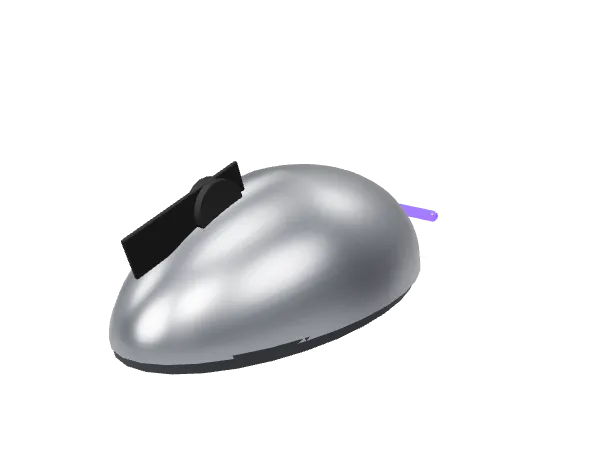
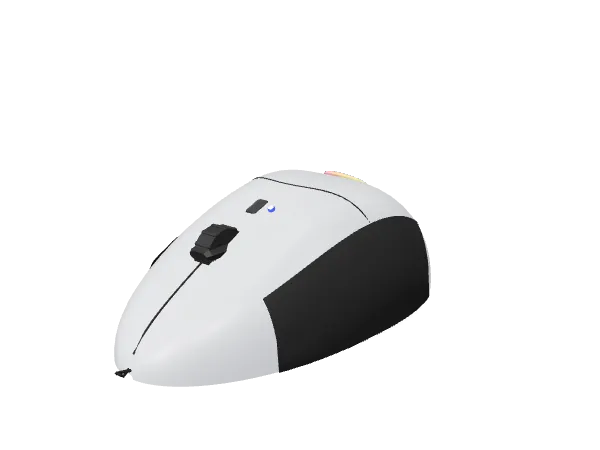
Realistic computer mouse, rodent fixes

Changed region(s): [[0.18, 0.3422, 0.75, 0.8711]]

diff --git a/src/models/electronics/computers.js b/src/models/electronics/computers.js
@@ -1,4 +1,5 @@
 // Computers & peripherals: laptop, desktop PC sets, monitor, keyboard, mouse/trackpad, printer, router, retro computer.
+import { brandEmblem } from '../../core/brand.js';
 import { THREE, M, mesh, group, roundedBox, lathe, curveTube, tube, cushion, clip, rotateTrack, moveTrack, spinTrack, pingPong, PI,
   makeDevice, screen, led, rgb, emblem, vents, ports, slab, frame, trimShell, keyGrid, LAYOUT } from './kit.js';
 
@@ -207,60 +208,162 @@ export const createComputerKeyboard = makeDevice('computer-keyboard', KEYBOARD_V
 export const MOUSE_VARIANTS = {
   office: { l: 0.11, w: 0.062, h: 0.036 },
   esports: { l: 0.126, w: 0.068, h: 0.042, side: true },
-  vertical: { l: 0.11, w: 0.07, h: 0.075, vertical: true },
+  vertical: { l: 0.115, w: 0.078, h: 0.072, vertical: true },
   trackball: { l: 0.13, w: 0.09, h: 0.045, ball: true },
   'travel-mini': { l: 0.09, w: 0.052, h: 0.028 },
   trackpad: { pad: true },
 };
 
+/** Mouse body as a height field over an egg-shaped plan (front = +Z): steep sides, hump towards the rear.
+ *  Returns { H(x,z) top height, W(z) plan half-width, N(x,z) surface normal, geo } so every part sits on it. */
+function mouseShape(V) {
+  const { l, w, h } = V;
+  const L2 = l / 2;
+  const W = (z) => { const u = THREE.MathUtils.clamp(z / L2, -1, 1); return (w / 2) * Math.sqrt(Math.max(0, 1 - Math.abs(u) ** 2.4)) * (1 - 0.1 * u); };
+  const crest = (u) => h * (0.42 + 0.58 * Math.exp(-(((u + 0.18) / 0.78) ** 2))) * Math.sqrt(Math.max(0, 1 - Math.abs(u) ** 3.2));
+  const scoop = (z) => (V.vertical || V.ball ? 0 : 0.13 * Math.exp(-((((z / L2) - 0.02) / 0.38) ** 2))); // thumb waist, left side
+  const Wx = (x, z) => W(z) * (x < 0 ? 1 - scoop(z) : 1);
+  const H = (x, z) => {
+    const u = THREE.MathUtils.clamp(z / L2, -1, 1);
+    const wz = Wx(x, z);
+    if (wz <= 1e-6) return 0;
+    const v = THREE.MathUtils.clamp(x / wz, -1, 1);
+    let y = crest(u) * Math.sqrt(Math.max(0, 1 - v ** 4));
+    if (V.vertical) y *= 0.3 + 0.7 * ((v + 1) / 2) ** 0.8; // handshake slope: high on the right, low thumb side
+    return y;
+  };
+  const N = (x, z) => { const e = 0.0006; return new THREE.Vector3(-(H(x + e, z) - H(x - e, z)) / (2 * e), 1, -(H(x, z + e) - H(x, z - e)) / (2 * e)).normalize(); };
+  // top surface grid (rows along Z with cosine spacing, columns across), closed by a flat bottom
+  const R = 40, C = 32, pos = [], idx = [];
+  for (let i = 0; i <= R; i++) {
+    const u = -Math.cos((i / R) * PI); const z = u * L2 * 0.999; const wz = W(z);
+    for (let k = 0; k <= C; k++) { const v = -Math.cos((k / C) * PI); const x = v * (v < 0 ? wz * (1 - scoop(z)) : wz); pos.push(x, H(x, z), z); }
+  }
+  for (let i = 0; i < R; i++) for (let k = 0; k < C; k++) { const a = i * (C + 1) + k, b = a + C + 1; idx.push(a, b, a + 1, a + 1, b, b + 1); }
+  const top = new THREE.BufferGeometry();
+  top.setAttribute('position', new THREE.Float32BufferAttribute(pos, 3)); top.setIndex(idx); top.computeVertexNormals();
+  const plan = [];
+  for (let i = 0; i <= 64; i++) { const t = (i / 64) * PI * 2; const z = Math.cos(t) * L2 * 0.999; const sx = Math.sin(t); plan.push(new THREE.Vector2(sx * W(z) * (sx < 0 ? 1 - scoop(z) : 1), z)); }
+  const bottom = new THREE.ShapeGeometry(new THREE.Shape(plan), 1).rotateX(PI / 2).translate(0, 0.0004, 0);
+  return { H, W: Wx, N, top, bottom, plan, L2, grid: { R, C, scoop } };
+}
+
 export function buildMouse(ctx, par, V, { at = [0, 0, 0], rotY = 0 } = {}) {
   const { T } = ctx;
   const g = group('mouse', { parent: par, at, rot: [0, rotY, 0] });
   if (V.pad) {
-    const w = 0.16, d = 0.115;
-    const wedge = new THREE.Shape([new THREE.Vector2(-d / 2, 0), new THREE.Vector2(d / 2, 0), new THREE.Vector2(d / 2, 0.0045), new THREE.Vector2(-d / 2, 0.01)]);
-    const geo = new THREE.ExtrudeGeometry(wedge, { depth: w, bevelEnabled: true, bevelThickness: 0.002, bevelSize: 0.0015, bevelSegments: 2 });
-    geo.translate(0, 0.0015, -w / 2).rotateY(PI / 2);
-    mesh(geo, T.body, { parent: g });
-    const top = new THREE.MeshPhysicalMaterial({ color: T.white || T.plain ? '#e7e9ec' : T.retro ? '#bfb393' : '#2b2d31', roughness: 0.4, clearcoat: 0.5 });
-    mesh(new THREE.PlaneGeometry(w - 0.006, Math.hypot(d, 0.0055) - 0.006).rotateX(-PI / 2 - Math.atan2(0.0055, d)), top, { parent: g, at: [0, 0.0087, 0] });
-    led(ctx, g, 'green', { at: [-w / 2 + 0.01, 0.0115, -d / 2 + 0.003], normal: [0, 1, 0], w: 0.002 });
-    if (T.gaming) rgb(ctx, g, { at: [0, 0.003, d / 2 + 0.0026], w: w * 0.9, h: 0.002 });
-    trimShell(ctx, g, w, 0.008, d, { r: 0.01 });
+    // trackpad: thin aluminium wedge (thicker at the back) with an inset glass touch surface
+    const w = 0.16, d = 0.115, th = 0.0055, lift = 0.004;
+    const wedge = (geo, y0) => { const p = geo.attributes.position; for (let i = 0; i < p.count; i++) if (p.getY(i) > y0) p.setY(i, p.getY(i) + lift * (0.5 - p.getZ(i) / d)); geo.computeVertexNormals(); return geo; };
+    mesh(wedge(roundedBox(w, th, d, 0.002, 3).translate(0, th / 2, 0), th * 0.5), T.body, { parent: g, name: 'pad_body' });
+    const glass = new THREE.MeshPhysicalMaterial({ color: T.white || T.plain ? '#eceef1' : T.retro ? '#c9bd9c' : '#2b2d31', roughness: 0.35, clearcoat: 0.6 });
+    mesh(wedge(roundedBox(w - 0.005, 0.001, d - 0.005, 0.0004, 1).translate(0, th - 0.0003, 0), th - 0.001), glass, { parent: g, name: 'touch_surface' });
+    if (T.gaming) rgb(ctx, g, { at: [0, th * 0.5, d / 2 + 0.0004], w: w * 0.85, h: 0.0016 });
+    trimShell(ctx, g, w, th, d, { r: 0.01 });
     return g;
   }
+  const S = mouseShape(V);
   const { l, w, h } = V;
-  const prof = [];
-  for (let i = 0; i <= 16; i++) { const t = i / 16; prof.push([Math.sin(t * PI) * 0.5 + 0.02, t]); }
-  // mouse body: squashed sphere-like lathe scaled to size, hump towards the rear
-  const geo = new THREE.SphereGeometry(0.5, 32, 20, 0, PI * 2, 0, PI / 2);
-  const p = geo.attributes.position;
-  for (let i = 0; i < p.count; i++) {
-    const z = p.getZ(i), y = p.getY(i);
-    p.setY(i, y * (1 - 0.35 * Math.max(0, z)) );
-    p.setX(i, p.getX(i) * (1 - 0.12 * z));
-  }
-  geo.computeVertexNormals();
-  const body = mesh(geo, T.body2 === T.rubber ? T.body : T.body, { parent: g, scale: [w, h * 2 - 0.004, l], at: [0, 0.003, 0], rot: V.vertical ? [0, 0, 0.9] : [0, 0, 0] });
-  mesh(new THREE.CylinderGeometry(0.5, 0.5, 1, 32).scale(w * 0.98, 0.004, l * 0.98), T.body2 === T.rubber ? T.dark : T.body2, { parent: g, at: [0, 0.002, 0] });
-  if (V.vertical) body.position.y = 0.012;
+  const { H, W, N } = S;
+  const on = (x, z, sink = 0) => { const n = N(x, z); return new THREE.Vector3(x, H(x, z), z).addScaledVector(n, -sink); };
+  // satin plastic shell (polished metal read as chrome on a mouse); keeps the theme colour
+  const shellM = T.body.metalness > 0.5 ? M.plastic('#' + T.body.color.getHexString(), 0.36) : T.body;
+  mesh(S.top, shellM, { parent: g, name: 'shell' });
+  const grip = T.rugged || T.kids ? T.body2 : M.rubber('#1e1f22');
   if (!V.vertical) {
-    // buttons split + wheel
-    mesh(roundedBox(0.0012, h * 0.3, l * 0.35, 0.0005), T.port, { parent: g, at: [0, h * 0.86, l * 0.3], rot: [0.32, 0, 0] });
-    const wheel = group('wheel', { parent: g, at: [0, h * 0.88, l * 0.22] });
-    mesh(new THREE.CylinderGeometry(0.0085, 0.0085, 0.006, 20).rotateZ(PI / 2), T.rubber, { parent: wheel });
+    // textured rubber side grips: a skin over the lower flanks, just proud of the shell
+    const gp = [], gi = [], RR = 24, CC = 6;
+    for (const side of [-1, 1]) {
+      const base0 = gp.length / 3;
+      for (let i = 0; i <= RR; i++) {
+        const z = S.L2 * (0.55 - (i / RR) * 1.15);
+        for (let k = 0; k <= CC; k++) {
+          const v = side * (0.8 + (k / CC) * 0.2);
+          const x = v * Math.abs(W(side * 0.001, z));
+          const n = N(x, z);
+          const y = H(x, z);
+          const off = 0.0006 + 0.00015 * (0.5 + 0.5 * Math.sin(i * 2.6)); // always proud of the shell (fine ribs)
+          gp.push(x + n.x * off, y + n.y * off, z + n.z * off);
+        }
+      }
+      for (let i = 0; i < RR; i++) for (let k = 0; k < CC; k++) { const a0 = base0 + i * (CC + 1) + k, b0 = a0 + CC + 1; if (side > 0) gi.push(a0, b0, a0 + 1, a0 + 1, b0, b0 + 1); else gi.push(a0, a0 + 1, b0, a0 + 1, b0 + 1, b0); }
+    }
+    const gg = new THREE.BufferGeometry();
+    gg.setAttribute('position', new THREE.Float32BufferAttribute(gp, 3)); gg.setIndex(gi); gg.computeVertexNormals();
+    const gm = mesh(gg, grip, { parent: g, name: 'side_grips' });
+    gm.material = gm.material.clone(); gm.material.side = THREE.DoubleSide;
+  }
+  // part line where the shell meets the base
+  curveTube(S.plan.map((p) => [p.x * 1.002, 0.0022, p.y * 1.002]), 0.0005, T.port, { parent: g, closed: true, segments: 96, radialSegments: 4, name: 'part_line' });
+  mesh(S.bottom, T.body2 === T.rubber ? T.dark : T.body2, { parent: g, name: 'base' });
+  // glide feet + sensor window underneath
+  for (const z of [l * 0.3, -l * 0.32]) mesh(roundedBox(w * 0.36, 0.0008, 0.006, 0.0003, 1), T.dark, { parent: g, at: [0, 0.0001, z], name: 'foot' });
+  const dark = T.port;
+  if (!V.vertical) {
+    // seam between the two buttons: a fine groove following the shell from the nose back to the wheel
+    const seam = [];
+    for (let t = 0; t <= 8; t++) { const z = S.L2 * (0.97 - t * 0.075); seam.push(on(0, z, 0.0002).toArray()); }
+    curveTube(seam, 0.00045, dark, { parent: g, name: 'button_seam', segments: 24, radialSegments: 5 });
+    // panel line separating the two buttons from the palm rest (curves back towards the flanks)
+    const pz = -S.L2 * 0.02, panel = [];
+    for (let t = 0; t <= 12; t++) { const v = -0.86 + (t / 12) * 1.72; const z = pz - Math.abs(v) ** 2 * S.L2 * 0.16; const x = v * Math.abs(W(v, z)); panel.push(on(x, z, 0.0002).toArray()); }
+    curveTube(panel, 0.0004, dark, { parent: g, name: 'panel_line', segments: 32, radialSegments: 4 });
+    // DPI button just behind the wheel
+    const dz = S.L2 * 0.2;
+    const dpi = mesh(roundedBox(0.0045, 0.002, 0.007, 0.0009, 2), T.dark, { parent: g, at: on(0, dz, 0.0006).toArray(), name: 'dpi_button' });
+    dpi.quaternion.setFromUnitVectors(new THREE.Vector3(0, 1, 0), N(0, dz));
+    // scroll wheel in a slot, a third of it showing above the shell
+    const wz = S.L2 * 0.45, wr = 0.0075;
+    const wy = H(0, wz) - wr * 0.35;
+    mesh(roundedBox(0.009, 0.004, 0.017, 0.0015, 1), dark, { parent: g, at: [0, H(0, wz) - 0.0016, wz], name: 'wheel_slot' });
+    const wheel = group('wheel', { parent: g, at: [0, wy, wz] });
+    mesh(new THREE.CylinderGeometry(wr, wr, 0.0058, 24).rotateZ(PI / 2), T.rubber, { parent: wheel, name: 'wheel_tyre' });
+    for (let k = 0; k < 12; k++) mesh(roundedBox(0.0062, 0.0008, 0.0012, 0.0003, 1), T.rubber, { parent: wheel, at: [0, Math.cos((k / 12) * PI * 2) * wr, Math.sin((k / 12) * PI * 2) * wr], rot: [(k / 12) * PI * 2, 0, 0] });
     ctx.extra.push(spinTrack(wheel, 'x', 1));
   }
-  if (V.ball) {
-    mesh(new THREE.SphereGeometry(0.019, 24, 16), M.plastic(T.gaming ? '#ff2bd6' : T.kids ? '#ffd23f' : '#c82a2a', 0.15), { parent: g, at: [-w * 0.3, h * 0.72, -0.005] });
+  if (V.vertical) {
+    // vertical mouse: buttons and wheel live on the tilted face, high on the right
+    const vx = (z) => W(1, z) * 0.42;
+    const seam = [];
+    for (let t = 0; t <= 8; t++) { const z = S.L2 * (0.95 - t * 0.075); seam.push(on(vx(z), z, 0.0002).toArray()); }
+    curveTube(seam, 0.00045, dark, { parent: g, name: 'button_seam', segments: 24, radialSegments: 5 });
+    const wz = S.L2 * 0.45, wx = vx(wz), wr = 0.0072, n = N(wx, wz);
+    const wheel = group('wheel', { parent: g, at: on(wx, wz, wr * 0.65).toArray() });
+    wheel.quaternion.setFromUnitVectors(new THREE.Vector3(0, 1, 0), n);
+    mesh(roundedBox(0.009, 0.004, 0.017, 0.0015, 1), dark, { parent: wheel, at: [0, wr * 0.65 - 0.0016, 0], name: 'wheel_slot' });
+    const tyre = group('wheel_spin', { parent: wheel });
+    mesh(new THREE.CylinderGeometry(wr, wr, 0.0058, 24).rotateZ(PI / 2), T.rubber, { parent: tyre, name: 'wheel_tyre' });
+    ctx.extra.push(spinTrack(tyre, 'x', 1));
   }
-  if (V.side) for (let i = 0; i < 2; i++) mesh(roundedBox(0.016, 0.006, 0.004, 0.0015), T.dark, { parent: g, at: [-w / 2 + 0.002, h * 0.5, l * 0.08 - i * 0.02], rot: [0, PI / 2, 0] });
-  led(ctx, g, T.gaming || V.side ? 'blue' : 'green', { at: [0, h * 0.82, -l * 0.18], normal: [0, 1, -0.4], w: 0.003 });
-  if (T.gaming || V.side) rgb(ctx, g, { at: [0, h * 0.42, -l / 2 + 0.002], normal: [0, 0.3, -1], w: w * 0.6, h: 0.003 });
-  if (T.rugged) mesh(new THREE.TorusGeometry(0.5, 0.06, 8, 32).rotateX(PI / 2).scale(w, 1.5 * h * 0.1, l), T.accent, { parent: g, at: [0, 0.006, 0] });
-  if (T.kids) { mesh(new THREE.SphereGeometry(0.012, 16, 12), T.body2, { parent: g, at: [-w * 0.28, h * 0.68, -l * 0.25] }); mesh(new THREE.SphereGeometry(0.012, 16, 12), T.body2, { parent: g, at: [w * 0.28, h * 0.68, -l * 0.25] }); }
-  if (T.damaged) mesh(roundedBox(w * 0.9, 0.002, 0.014, 0.0008), M.matte('#9b9d9f', 0.95), { parent: g, at: [0, h * 0.72, -0.01], rot: [0.25, 0, 0] });
-  if (T.retro) curveTube([[0, 0.01, l / 2], [0, 0.006, l / 2 + 0.04], [0.03, 0.003, l / 2 + 0.1]], 0.0022, M.matte('#cfc4a6'), { parent: g, segments: 16 });
+  if (V.ball) {
+    // thumb trackball in a socket on the left flank
+    const bx = -W(-1, S.L2 * 0.12) * 0.42, bz = S.L2 * 0.12, br = 0.016;
+    const c = on(bx, bz, br * 0.45);
+    mesh(new THREE.TorusGeometry(br * 1.02, 0.0016, 8, 32).rotateX(PI / 2), dark, { parent: g, at: on(bx, bz, 0.0004).toArray(), name: 'ball_socket' }).quaternion.setFromUnitVectors(new THREE.Vector3(0, 1, 0), N(bx, bz));
+    mesh(new THREE.SphereGeometry(br, 28, 18), M.plastic(T.gaming ? '#ff2bd6' : T.kids ? '#ffd23f' : '#c82a2a', 0.15), { parent: g, at: c.toArray(), name: 'trackball' });
+  }
+  if (V.side) {
+    // thumb buttons sunk into the left flank
+    for (let i = 0; i < 2; i++) {
+      const z = S.L2 * (0.18 - i * 0.3), x = -W(-1, z) * 0.9;
+      const b = mesh(roundedBox(0.0035, 0.007, 0.016, 0.0015, 2), T.dark, { parent: g, at: on(x, z, 0.0012).toArray(), name: 'side_button' });
+      const n = N(x, z); b.rotation.z = Math.atan2(-n.x, n.y) * 0.9;
+    }
+  }
+  // status LED beside the DPI button, orbix emblem on the palm
+  const lz = S.L2 * 0.2, lx = V.vertical ? 0 : 0.006;
+  led(ctx, g, T.gaming || V.side ? 'blue' : 'green', { at: on(lx, lz, -0.0002).toArray(), normal: N(lx, lz).toArray(), w: 0.0018 });
+  const ez = -S.L2 * 0.5, ex = V.vertical ? W(0.01, ez) * 0.35 : 0;
+  const em = brandEmblem(Math.min(0.016, w * 0.24), { name: 'emblem' });
+  em.position.copy(on(ex, ez, -0.0003));
+  em.quaternion.setFromUnitVectors(new THREE.Vector3(0, 0, 1), N(ex, ez));
+  g.add(em);
+  if (T.gaming || V.side) { const rz = -S.L2 * 0.9; rgb(ctx, g, { at: on(0, rz, -0.0002).toArray(), normal: N(0, rz).toArray(), w: W(0, rz) * 1.2, h: 0.0024 }); }
+  if (T.rugged) curveTube(S.plan.map((p) => [p.x * 1.03, 0.004, p.y * 1.03]), 0.0035, T.accent, { parent: g, closed: true, segments: 64, radialSegments: 8, name: 'bumper' });
+  if (T.kids) for (const sx of [-1, 1]) { const x = sx * W(sx, -S.L2 * 0.3) * 0.5, z = -S.L2 * 0.3; mesh(new THREE.SphereGeometry(0.011, 16, 12), T.body2, { parent: g, at: on(x, z, 0.004).toArray(), name: 'ear' }); }
+  if (T.damaged) { const crack = []; for (let t = 0; t <= 6; t++) { const x = (t / 6 - 0.5) * W(0, 0) * 1.4, z = -S.L2 * 0.1 + Math.sin(t * 2.1) * 0.004; crack.push(on(x, z, 0.0001).toArray()); } curveTube(crack, 0.0005, M.matte('#9b9d9f', 0.95), { parent: g, segments: 20, radialSegments: 4, name: 'crack' }); }
+  if (T.retro) { const fz = S.L2 * 0.995, fy = Math.max(0.003, H(0, S.L2 * 0.97) * 0.5); curveTube([[0, fy, fz - 0.002], [0, fy * 0.8, fz + 0.03], [0.02, 0.003, fz + 0.08], [0.045, 0.0024, fz + 0.13]], 0.0022, M.matte('#cfc4a6'), { parent: g, segments: 24, name: 'cable' }); }
+  void h;
   return g;
 }
 

diff --git a/src/models/animals/species.js b/src/models/animals/species.js
@@ -374,8 +374,8 @@ export const QUAD_TYPES = {
       chipmunk: { H: 0.06, BL: 0.11, chest: 0.74, croup: 1.28, sway: -0.28, legs: { hind: { type: 'haunch', r: 0.07, foot: 0.5, footH: 0.05 }, front: { r: 0.045, wrist: 0.1 } }, neck: { len: 0.18, ang: 48 }, head: { len: 0.6, mlen: 0.36 }, tail: { type: 'up', len: 0.75, r: 0.09, hair: true }, coat: { base: '#b8844a', back: '#9a6a38', belly: '#f2e6d0', saddle: '#2a2018', saddleLow: 0.85, saddleFront: 1.4 } },
       hamster: { H: 0.055, BL: 0.075, chest: 0.94, bw: 1.2, croup: 1.08, sway: -0.2, hips: 1.1, haunch: 1.1, tuck: -0.1, legs: { r: 0.07, paw: 0.1, wrist: 0.06, hock: 0.08 }, neck: { len: 0.04, ang: 25, r0: 0.4, r1: 0.36 }, head: { len: 0.62, w: 0.48, h: 0.42, mlen: 0.28, mw: 0.62, stop: 0.2, jowl: 0.35, cheek: 1.1 }, ears: { len: 0.25 }, tail: { type: 'none' }, coat: { base: '#d8a868', back: '#c8985a', belly: '#f6f0e6' } },
       'guinea-pig': { H: 0.08, BL: 0.17, chest: 0.92, bw: 1.0, croup: 1.02, sway: -0.08, tuck: -0.08, legs: { r: 0.065, paw: 0.08, wrist: 0.05, hock: 0.06 }, neck: { len: 0.05, ang: 20, r0: 0.4, r1: 0.37 }, head: { len: 0.7, w: 0.42, mlen: 0.35, mw: 0.62, stop: 0.1 }, ears: { type: 'rose', len: 0.25, w: 0.8 }, tail: { type: 'none' }, coat: { base: '#f4f0e8', back: '#ece6dc', belly: '#f6f2ea', pattern: { type: 'patches', color: '#c87a3a', amount: 0.5, scale: 2.5 }, pattern2: { type: 'patches', color: '#1e1a16', amount: 0.62, scale: 3 } } },
-      mouse: { H: 0.03, BL: 0.075, chest: 0.8, croup: 1.18, sway: -0.15, fur: 0.01, legs: { hind: { type: 'haunch', r: 0.07, foot: 0.6, footH: 0.05 }, front: { r: 0.045, wrist: 0.08 } }, neck: { len: 0.15, ang: 30 }, head: { len: 0.75, mlen: 0.45, mw: 0.45 }, ears: { type: 'round', len: 0.5, w: 0.9 }, eyes: { r: 0.1 }, tail: { type: 'cat', len: 1.0, r: 0.025 }, coat: { base: '#8a8078', back: '#7a7068', belly: '#d8d2ca', nose: '#e0a8a8' } },
-      rat: { H: 0.06, BL: 0.18, chest: 0.8, croup: 1.2, sway: -0.15, fur: 0.01, legs: { hind: { type: 'haunch', r: 0.065, foot: 0.65, footH: 0.05 }, front: { r: 0.045, wrist: 0.08 } }, neck: { len: 0.18, ang: 28 }, head: { len: 0.65, mlen: 0.5, mw: 0.42 }, ears: { type: 'round', len: 0.35 }, tail: { type: 'cat', len: 1.0, r: 0.03, color: '#d8a8a0' }, coat: { base: '#6a5e54', back: '#5a4e44', belly: '#a89a8c', nose: '#e0a8a8' } },
+      mouse: { H: 0.03, BL: 0.08, chest: 0.92, croup: 1.28, sway: -0.28, fur: 0.008, legs: { hind: { type: 'haunch', r: 0.06, foot: 0.62, footH: 0.04 }, front: { r: 0.038, wrist: 0.06 } }, neck: { len: 0.1, ang: 26 }, head: { len: 0.82, mlen: 0.56, mw: 0.34 }, ears: { type: 'round', len: 0.4, w: 0.72, a: 0.95 }, eyes: { r: 0.135, side: 0.85 }, tail: { type: 'trail', len: 1.1, r: 0.018, color: '#d6aea6' }, coat: { base: '#8a8078', back: '#77695f', belly: '#cbc2b8', nose: '#e2a6a6' } },
+      rat: { H: 0.06, BL: 0.18, chest: 0.8, croup: 1.2, sway: -0.15, fur: 0.01, legs: { hind: { type: 'haunch', r: 0.065, foot: 0.65, footH: 0.05 }, front: { r: 0.045, wrist: 0.08 } }, neck: { len: 0.18, ang: 28 }, head: { len: 0.65, mlen: 0.5, mw: 0.42 }, ears: { type: 'round', len: 0.35 }, tail: { type: 'trail', len: 1.0, r: 0.03, color: '#d8a8a0' }, coat: { base: '#6a5e54', back: '#5a4e44', belly: '#a89a8c', nose: '#e0a8a8' } },
       hedgehog: { H: 0.08, BL: 0.16, chest: 0.92, bw: 1.05, croup: 1.05, sway: -0.3, tuck: -0.05, fur: 0, spines: { len: 0.28 }, legs: { r: 0.06, wrist: 0.05, hock: 0.06 }, neck: { len: 0.1, ang: 15 }, head: { len: 0.6, mlen: 0.5, mw: 0.4, stop: 0.2, ang: 22 }, ears: { len: 0.2 }, tail: { type: 'none' }, coat: { base: '#7a6a5a', back: '#4a3e34', belly: '#d8ccbc', mottle: 0.25, muzzle: '#d8ccbc', muzzleStart: 0.3 } },
       raccoon: { H: 0.26, BL: 0.48, chest: 0.7, croup: 1.22, sway: -0.35, tuck: 0.05, fur: 0.035, legs: { type: 'planti', r: 0.045, foot: 0.25, claws: false }, ears: { type: 'round', len: 0.32, w: 0.8, earTip: '#f2eee6' }, tail: { type: 'bushy', len: 0.5, r: 0.075 }, coat: { base: '#8a8580', back: '#6a6560', belly: '#a8a49e', pattern: { type: 'bands', color: '#1a1816', rings: 6 }, face: { spectacles: '#1a1816' }, muzzle: '#f2eee6', muzzleStart: 0.7, points: '#2a2826', pointsH: 0.2 } },
       skunk: { H: 0.18, BL: 0.38, chest: 0.7, croup: 1.2, sway: -0.3, fur: 0.03, legs: { type: 'planti', r: 0.05, foot: 0.3, claws: true }, tail: { type: 'plume', len: 0.8, r: 0.16, drop: 0.05 }, coat: { base: '#141210', back: '#141210', belly: '#1a1816', saddle: '#f6f4f0', saddleLow: 0.82, saddleFront: 1.6, face: { blaze: '#f6f4f0' }, muzzle: null } },

diff --git a/src/models/animals/quad.js b/src/models/animals/quad.js
@@ -490,7 +490,7 @@ export function buildQuadruped(name, S, opts = {}) {
     paint(tailGeo, (i, p) => {
       const t = lt(tailGeo)[i];
       const c = coat(p, new THREE.Vector3(0, 1, 0), { region: 'tail', t });
-      return c.lerp(tc, smooth01((t - (tail.type === 'horse' ? 0.08 : 0.85)) / 0.06)).multiplyScalar(0.85 + 0.3 * nz(p.x * 300, p.y * 60, p.z * 300));
+      return c.lerp(tc, smooth01((t - (tail.type === 'horse' ? 0.08 : tail.type === 'trail' ? 0.02 : 0.85)) / 0.06)).multiplyScalar(0.85 + 0.3 * nz(p.x * 300, p.y * 60, p.z * 300));
     });
   }
 
@@ -824,6 +824,10 @@ function tailPath(tail, root, len, H) {
       return [p(0, 0), p(0.12, -0.28), p(0.45, -0.36), p(0.75, -0.22), p(0.92, -0.02), p(0.9, 0.12)];
     case 'pom': // rabbit cotton tail: short round puff tipped up
       return [p(0, 0), p(0.3, -0.5), p(0.55, -0.95)];
+    case 'trail': { // mouse / rat: drops off the rump to the ground, then trails behind in a lazy S
+      const e = -Math.max(0, root.y - (tail.r ?? 0.02) * H * 1.2) / len;
+      return [p(0, 0), p(e * 0.45, -0.1), p(e * 0.92, -0.26), p(e, -0.45, 0.06 * len), p(e, -0.68, -0.05 * len), p(e, -0.9, 0.04 * len), p(e, -1.0, 0.08 * len)];
+    }
     case 'paddle': { // beaver: drops to the ground then lies flat behind
       const e = -Math.max(0, root.y - (tail.r ?? 0.1) * H * 0.4) / len;
       return [p(0, 0), p(e * 0.6, -0.22), p(e * 0.97, -0.5), p(e, -0.75), p(e, -1.0)];
